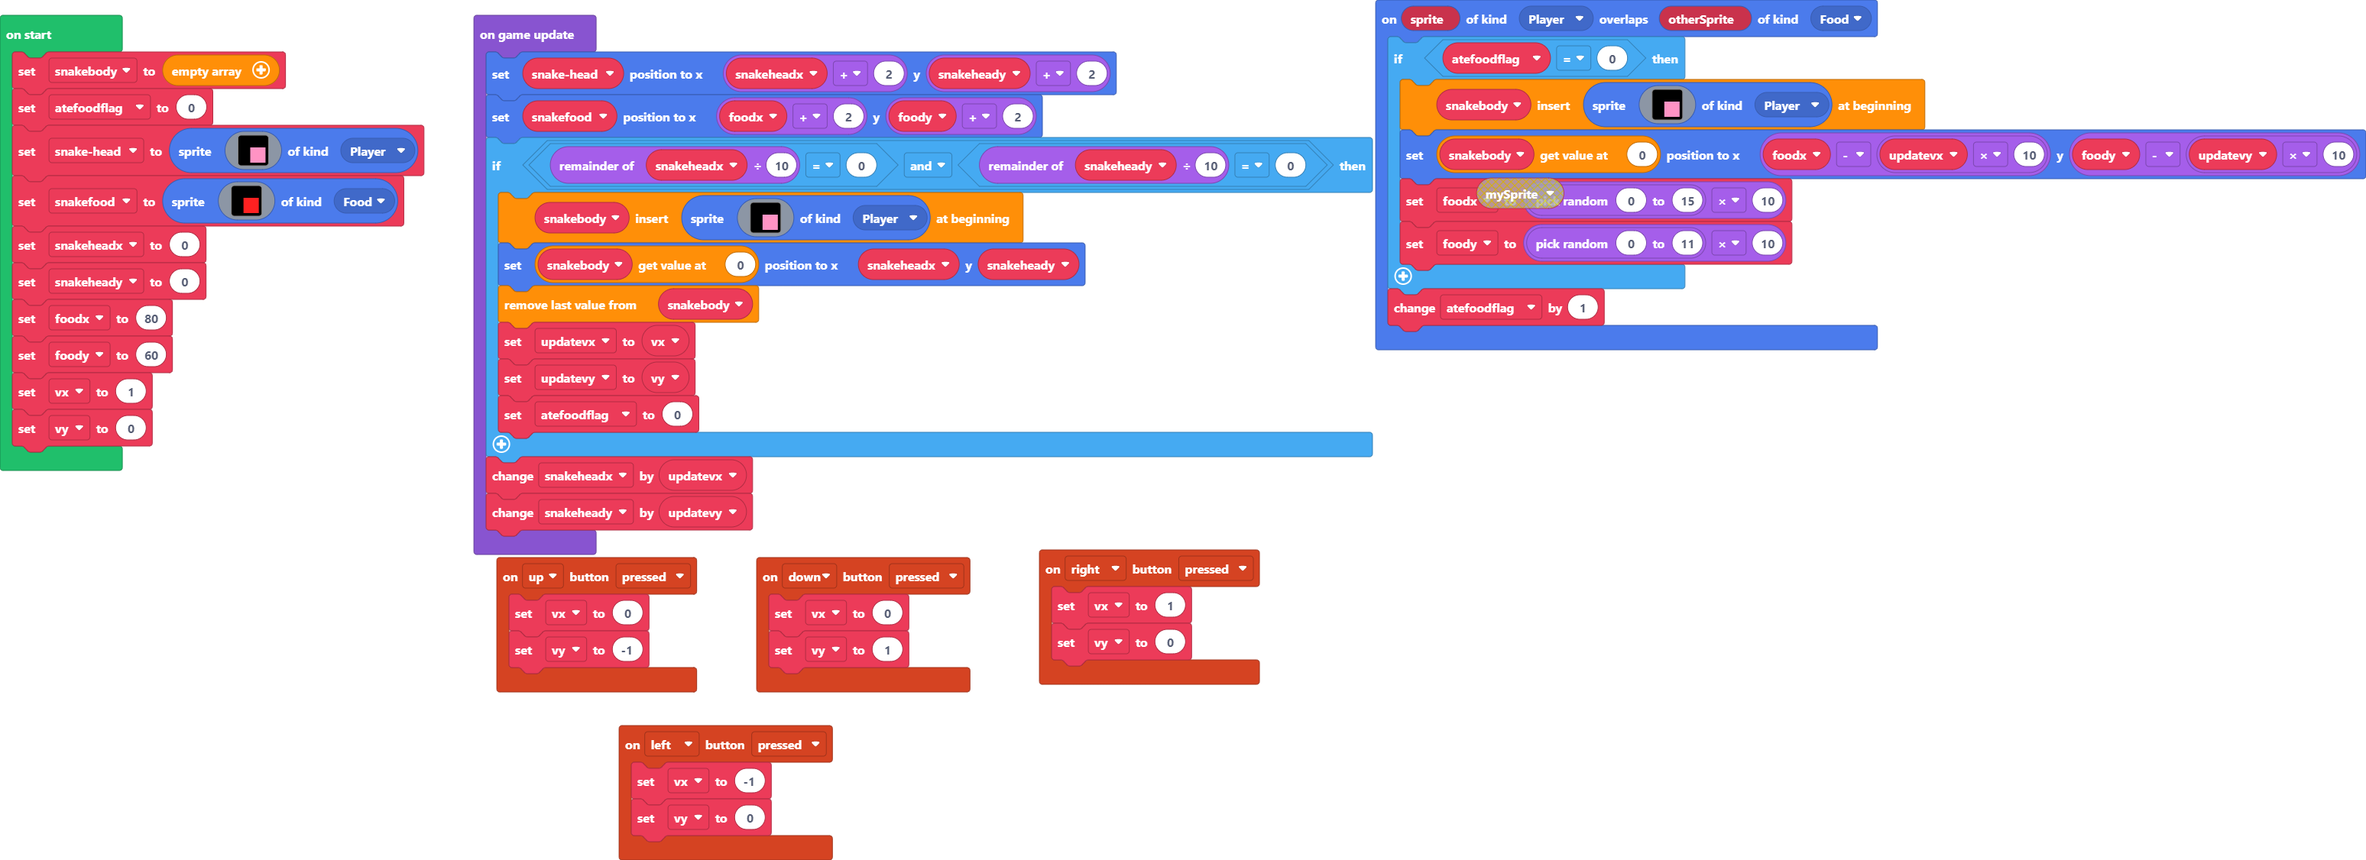
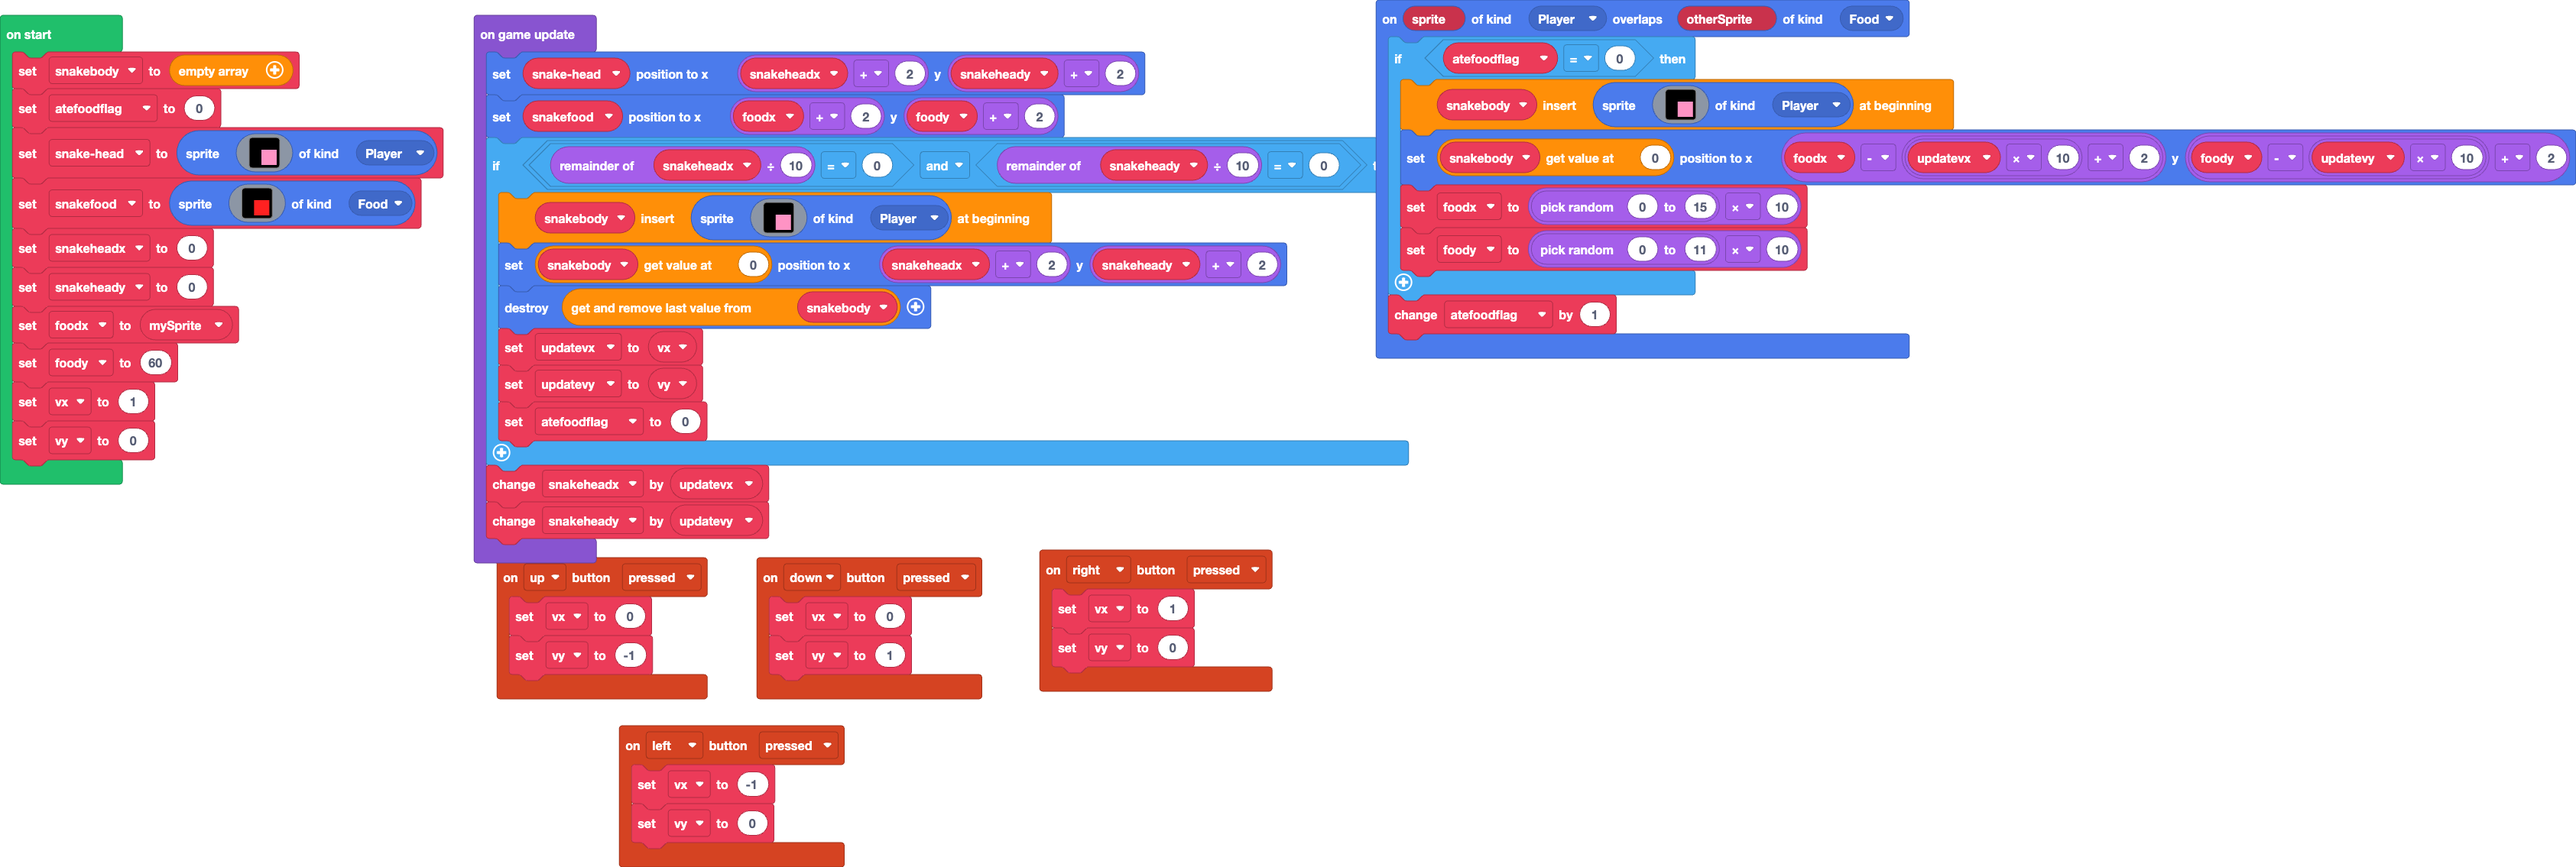
fixed snake body

Changed region(s): [[0.0, 0.0, 1.0, 1.0]]

diff --git a/main.ts b/main.ts
@@ -34,7 +34,7 @@ sprites.onOverlap(SpriteKind.Player, SpriteKind.Food, function (sprite, otherSpr
             . . . . . . 3 3 3 3 3 3 3 3 3 3 
             . . . . . . 3 3 3 3 3 3 3 3 3 3 
             `, SpriteKind.Player))
-        snakebody[0].setPosition(foodx - updatevx * 10, foody - updatevy * 10)
+        snakebody[0].setPosition(foodx - (updatevx * 10 + 2), foody - updatevy * 10 + 2)
         foodx = randint(0, 15) * 10
         foody = randint(0, 11) * 10
     }
@@ -45,6 +45,7 @@ let updatevx = 0
 let vy = 0
 let vx = 0
 let foody = 0
+let mySprite = 0
 let foodx = 0
 let atefoodflag = 0
 let snakebody: Sprite[] = []
@@ -88,7 +89,7 @@ let snakefood = sprites.create(img`
     `, SpriteKind.Food)
 let snakeheadx = 0
 let snakeheady = 0
-foodx = 80
+foodx = mySprite
 foody = 60
 vx = 1
 vy = 0
@@ -114,8 +115,8 @@ game.onUpdate(function () {
             . . . . . . 3 3 3 3 3 3 3 3 3 3 
             . . . . . . 3 3 3 3 3 3 3 3 3 3 
             `, SpriteKind.Player))
-        snakebody[0].setPosition(snakeheadx, snakeheady)
-        snakebody.pop()
+        snakebody[0].setPosition(snakeheadx + 2, snakeheady + 2)
+        snakebody.pop().destroy()
         updatevx = vx
         updatevy = vy
         atefoodflag = 0
